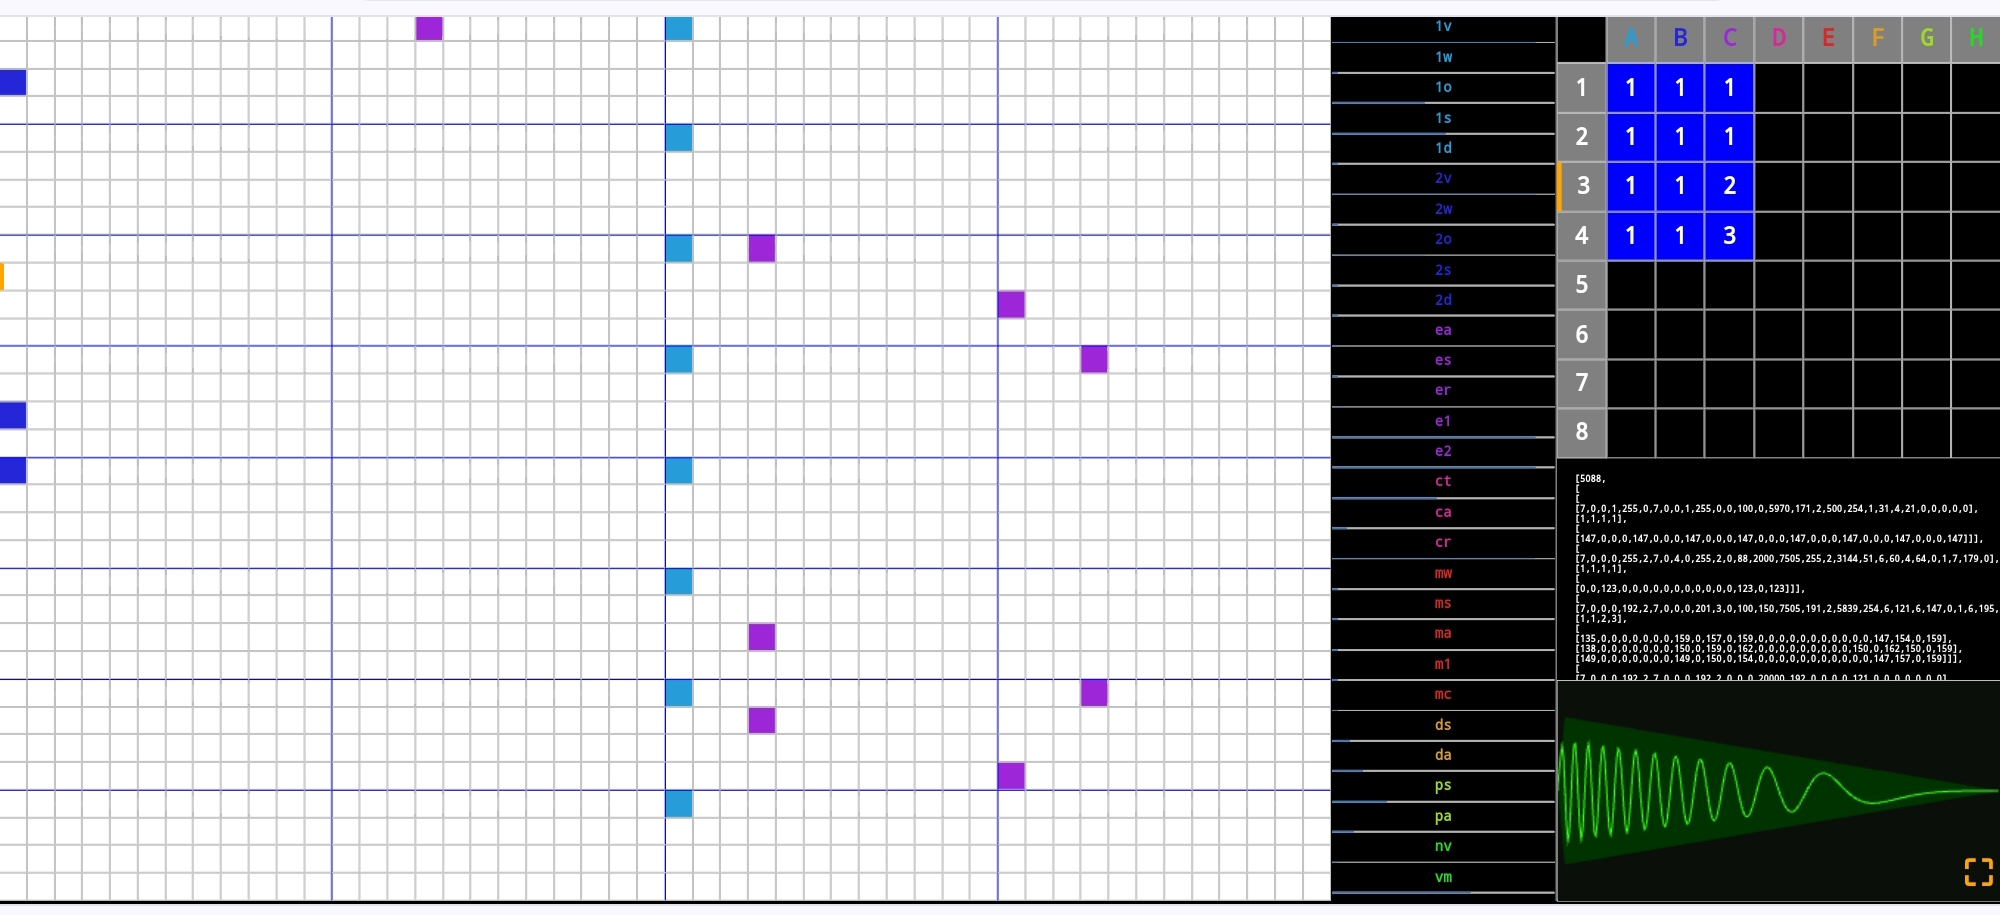
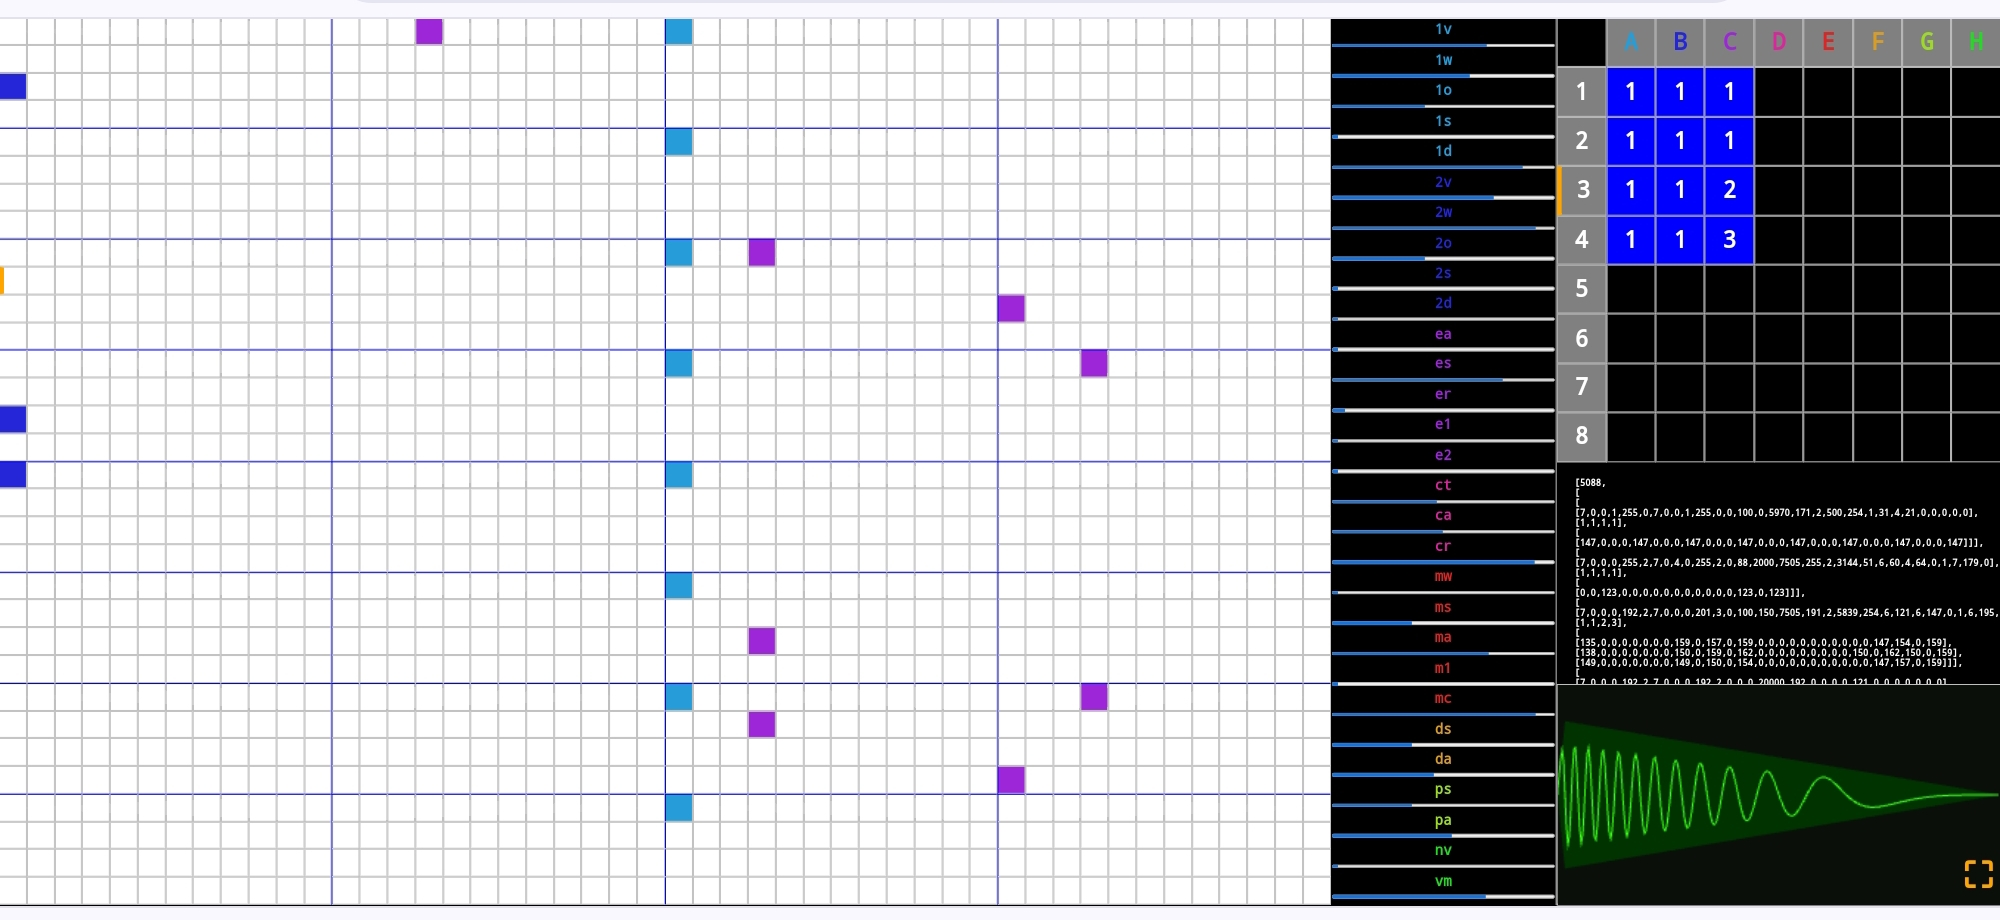
updates

Changed region(s): [[0.0, 0.0, 1.0, 1.0]]

diff --git a/index.js b/index.js
@@ -500,7 +500,7 @@ body { display: flex; background:black; color:white;font-weight: bold;font-famil
 .row-playing { border-left: 3px solid orange !important; }
 .sliders{ display: flex; flex-direction: column; justify-content: space-evenly;  font-size: 8px; }
 .sliders > * { display: flex; flex-direction: column; align-items: center; }
-.sliders .slider { height: 1px; }
+.sliders .slider { height: 2px; }
 .sliders input[type="range"]::-webkit-slider-thumb { opacity: 0; }
 .text{ padding: 10px; font-size: 5px; white-space: pre; overflow: auto; }
 .sequencer { height:50dvh; aspect-ratio:1/1; }
